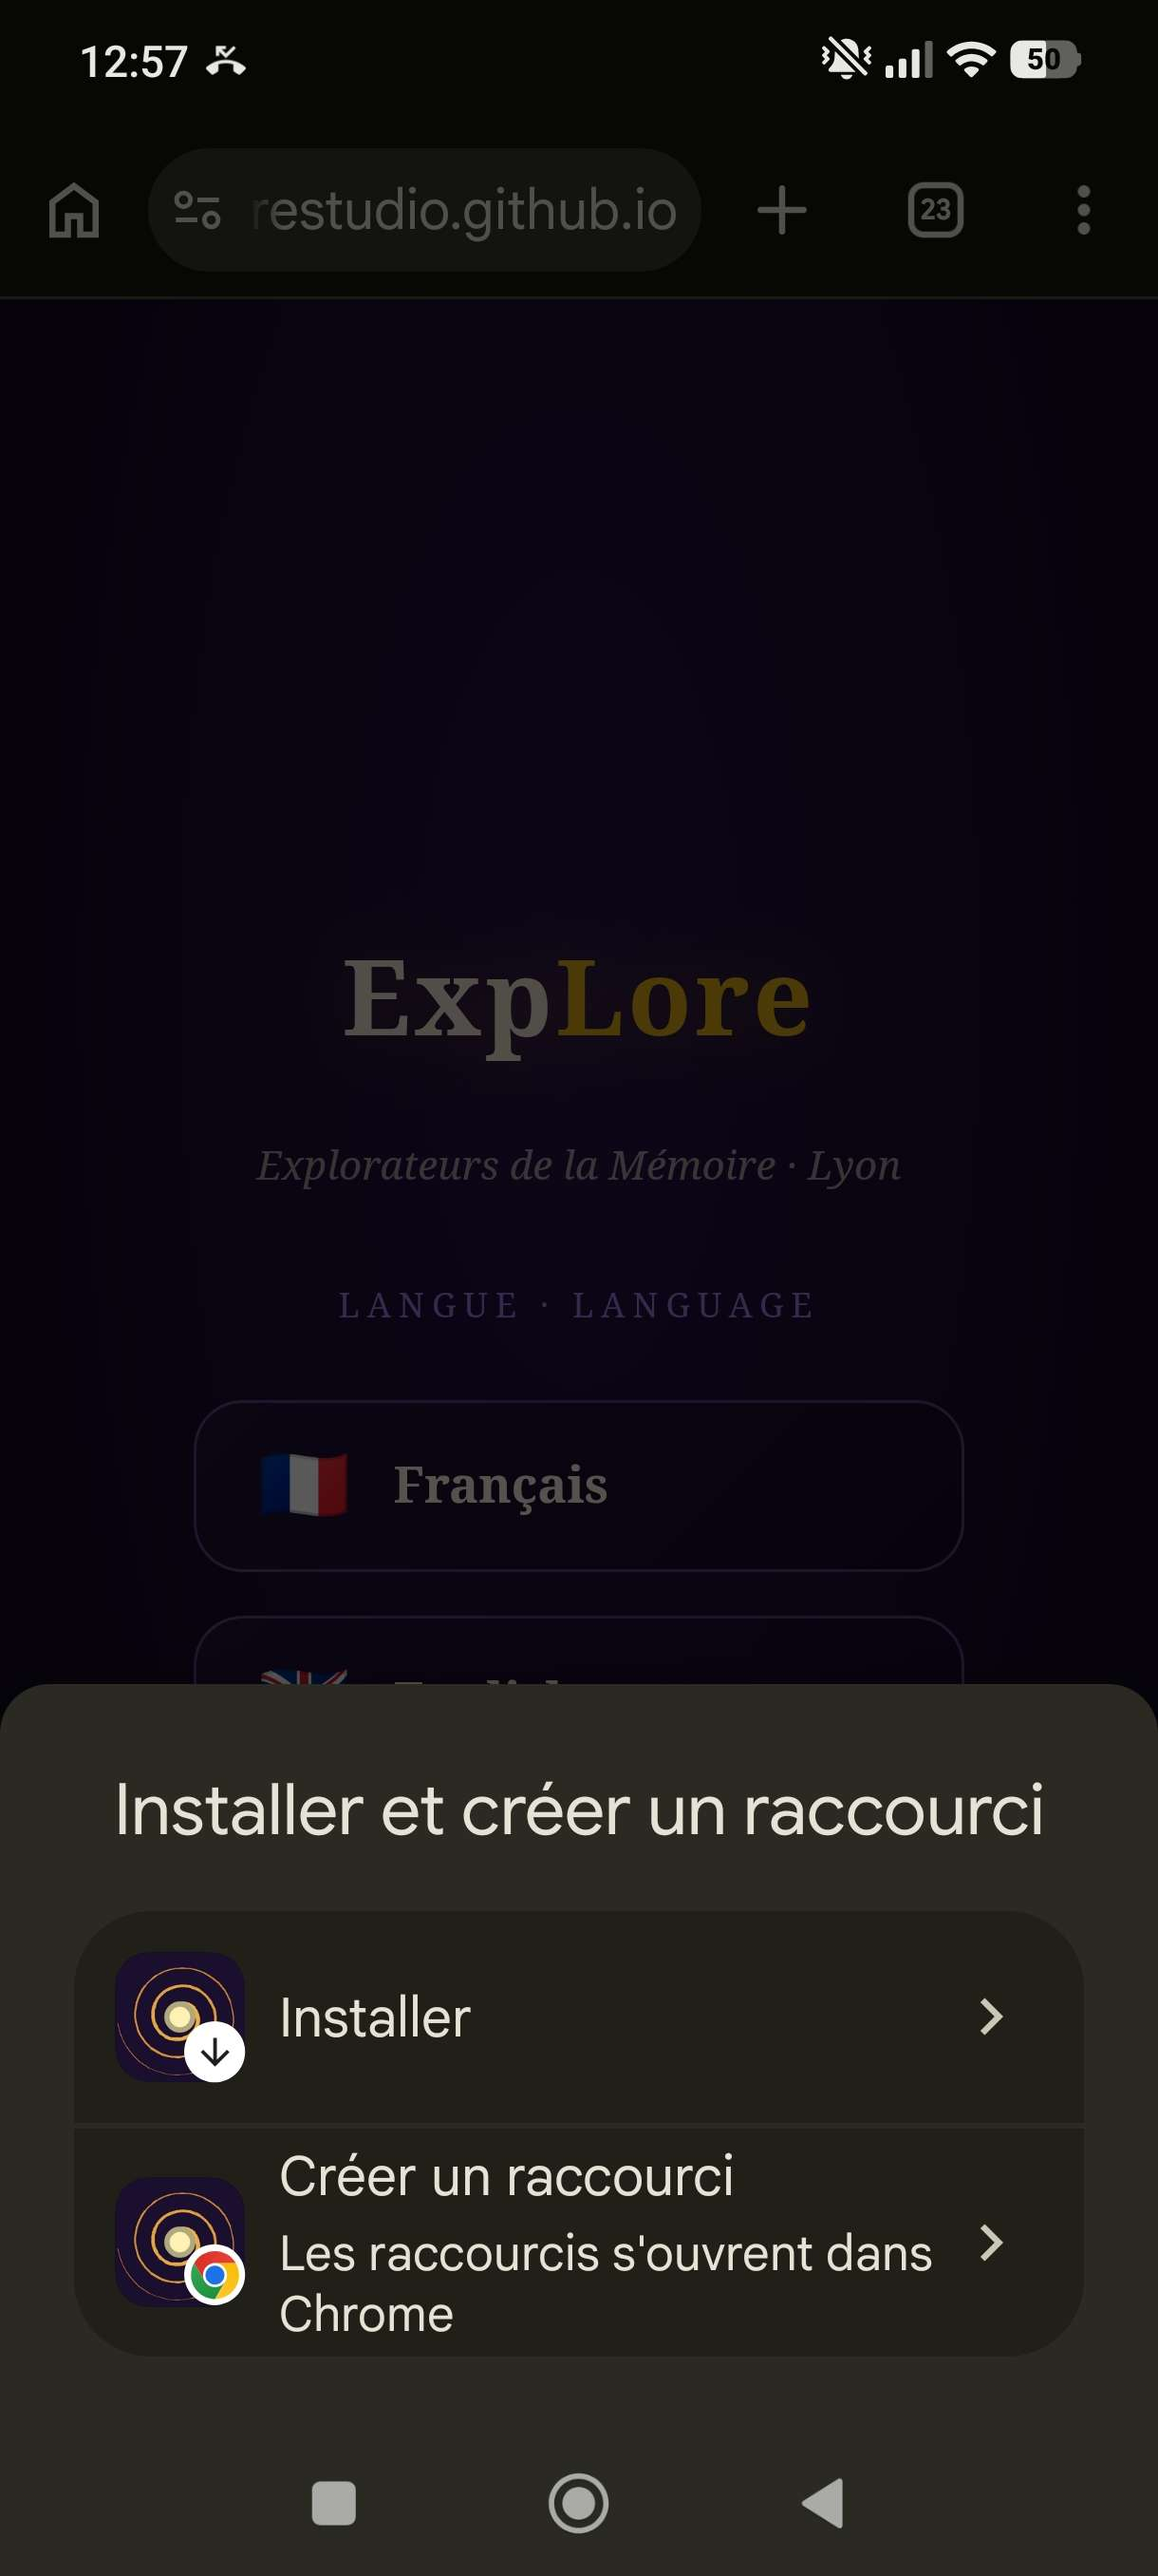
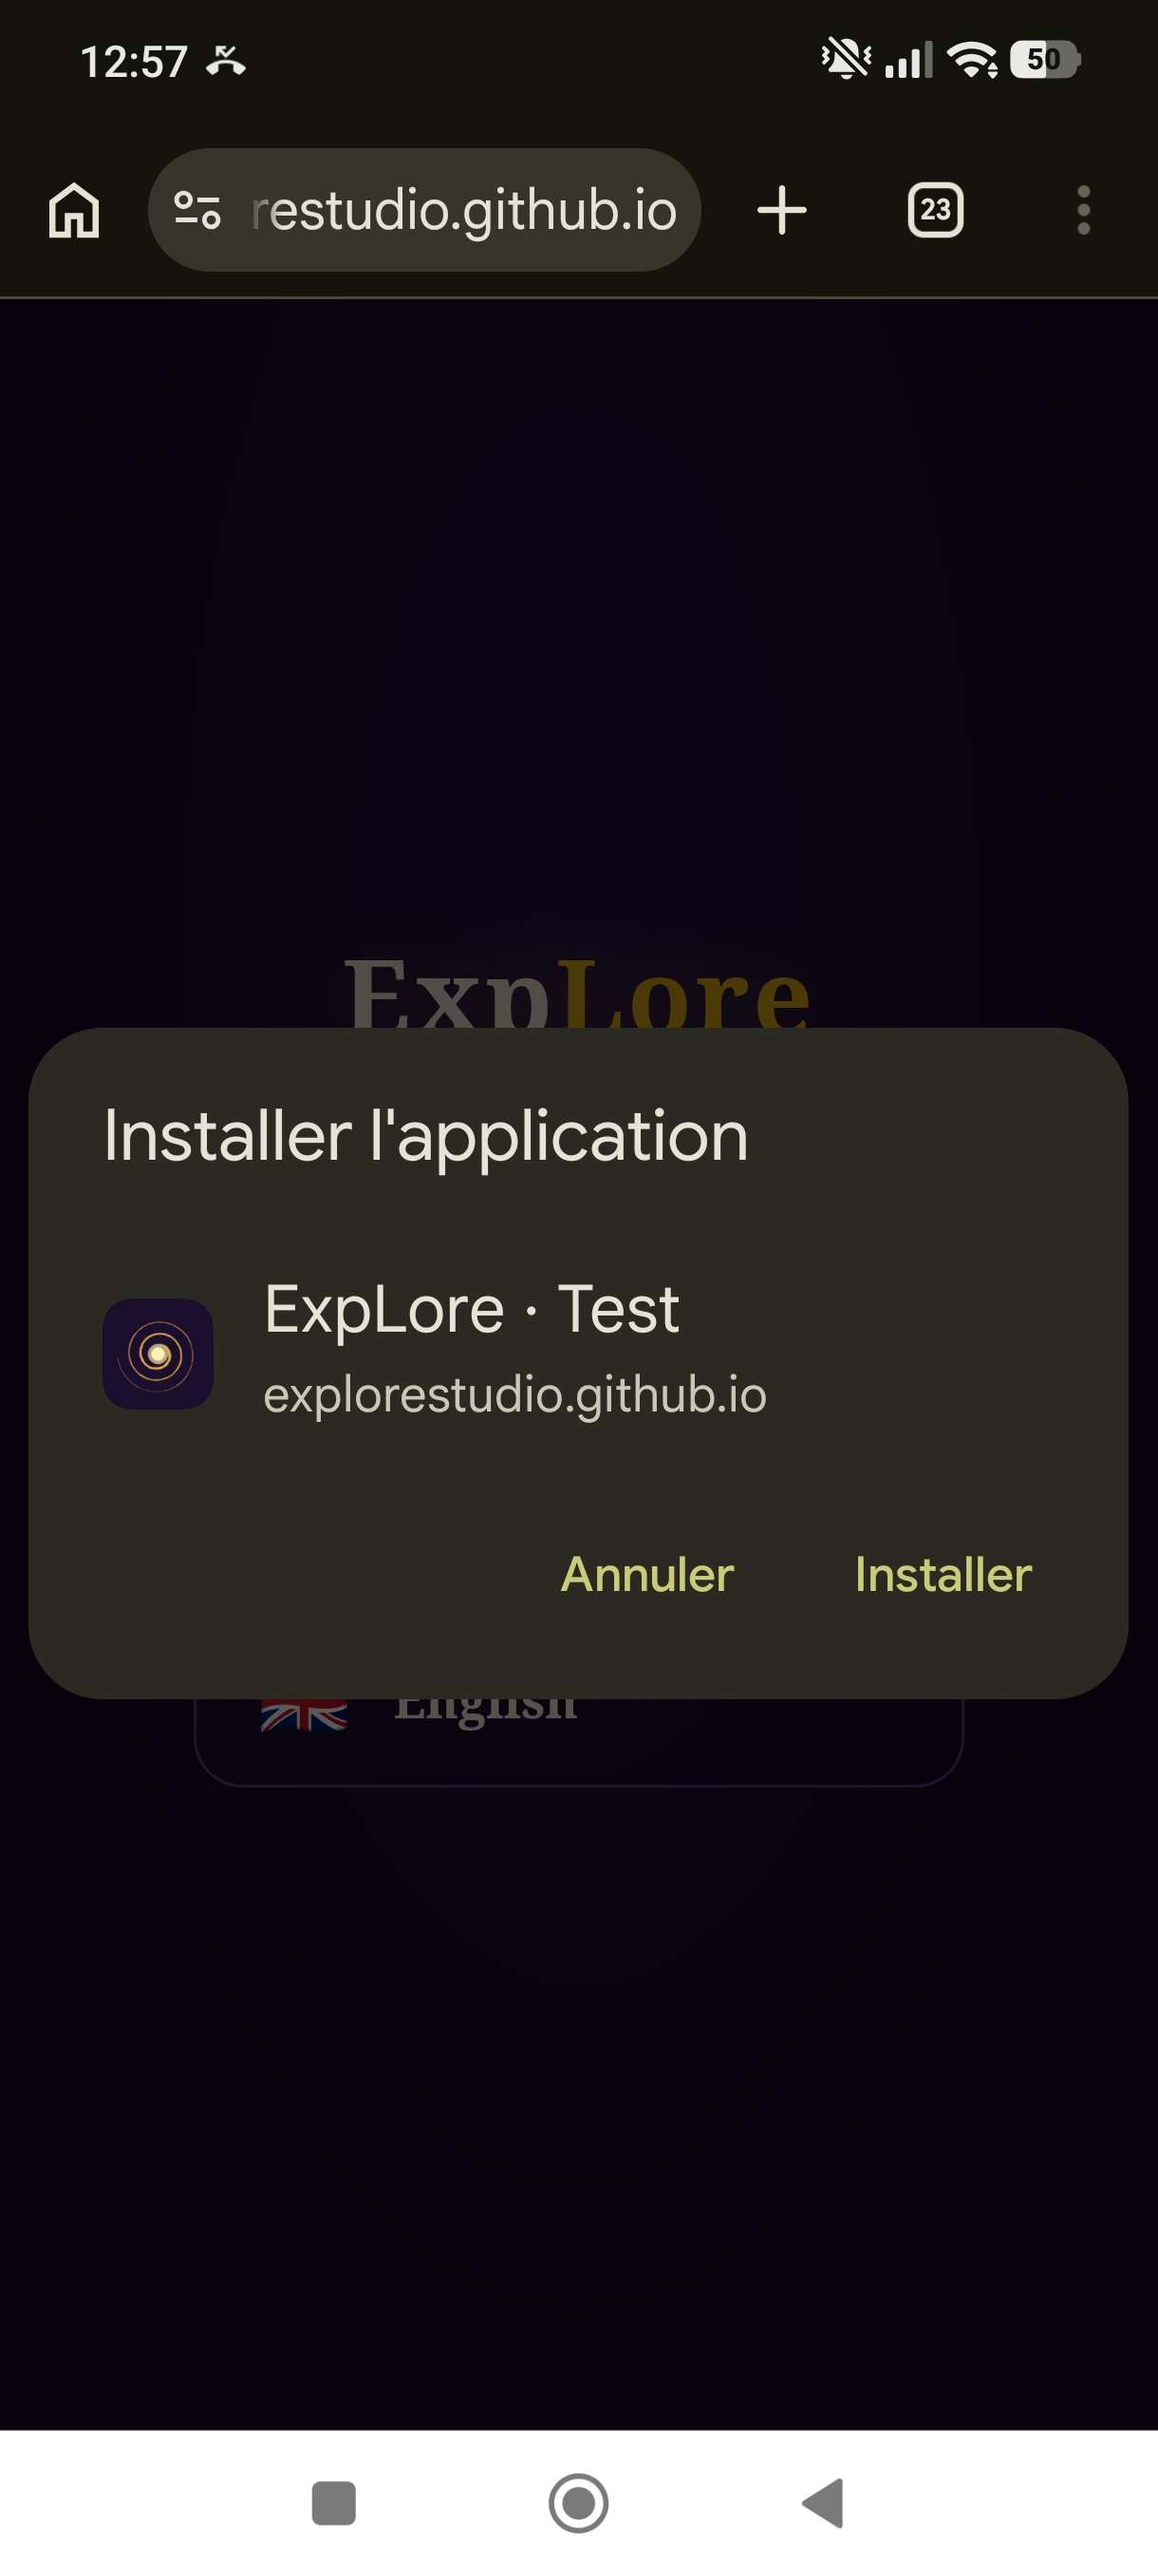
test-bellecour : six captures Android dans l'ordre, textes des étapes 3 et 6 alignés sur Chrome, captures centrées, titres sans étoiles, participation gratuite dans L'essentiel, section « Ce que c'est » et encadré Discord/Knockk retirés, Instagram avec les contacts, pied de page retiré

diff --git a/test-bellecour/index.html b/test-bellecour/index.html
@@ -294,7 +294,7 @@ section.bloc { margin-top: 46px; }
    en fond CSS, le recouvre si le fichier existe. Fichier absent = rien de cassé. */
 .capture {
   position: relative;
-  margin-top: 12px;
+  margin: 12px auto 0;   /* centrée sous le texte de l'étape */
   width: 150px;
   aspect-ratio: 9 / 19.5;
   border: 1px dashed rgba(240,236,226,0.22);
@@ -343,6 +343,9 @@ section.bloc { margin-top: 46px; }
 .btn-discord:hover { border-color: #5865F2; background: rgba(88,101,242,0.1); }
 .btn-ico { width: 18px; height: 18px; margin-right: 11px; flex-shrink: 0; fill: none; stroke: currentColor; stroke-width: 1.7; }
 .btn-discord .btn-ico { color: #5865F2; fill: currentColor; stroke: none; }
+.btn-instagram { color: var(--text); border: 1px solid rgba(225,48,108,0.55); }
+.btn-instagram:hover { border-color: #E1306C; background: rgba(225,48,108,0.1); }
+.btn-instagram .btn-ico { color: #E1306C; }
 .mail-ecrit { text-align: center; font-family: var(--mono); font-size: 13px; color: var(--text-faint); word-break: break-all; }
 
 /* ---------- Pied de page ---------- */
@@ -433,6 +436,10 @@ section.bloc { margin-top: 46px; }
         <dt>Après, pour ceux qui veulent</dt>
         <dd>Les Petits Joueurs<br><small>Rue Saint-Georges</small></dd>
       </div>
+      <div>
+        <dt>Participation</dt>
+        <dd>Gratuite</dd>
+      </div>
     </dl>
   </section>
 
@@ -440,24 +447,11 @@ section.bloc { margin-top: 46px; }
     <a class="btn btn-primary" href="#installer">Comment installer</a>
   </div>
 
-  <!-- Ce que c'est -->
-  <section class="bloc" aria-labelledby="t-quoi">
-    <h2 id="t-quoi"><svg class="sparkle" viewBox="0 0 24 24" aria-hidden="true"><path d="M12 1c.9 5.4 4.7 9.2 10.1 10.1C16.7 12 12.9 15.8 12 21.2 11.1 15.8 7.3 12 1.9 11.1 7.3 10.2 11.1 6.4 12 1Z"/></svg>Ce que c'est</h2>
-    <p>ExpLore est un jeu d'exploration de Lyon, sur téléphone. Des cartes sont cachées dans la ville : tu marches, tu les trouves, tu les collectionnes, et chacune te raconte un morceau de l'histoire des lieux.</p>
-    <p>Ce samedi, c'est une <strong>avant-première</strong>, pas le jeu fini. Certaines choses marcheront bien, d'autres coinceront. C'est justement ce qu'on veut voir.</p>
-    <p>La participation est <strong>gratuite et bénévole</strong>. Tes retours décident de la suite du jeu.</p>
-  </section>
-
   <!-- Installer l'application -->
   <section class="bloc" id="installer" aria-labelledby="t-installer">
-    <h2 id="t-installer"><svg class="sparkle" viewBox="0 0 24 24" aria-hidden="true"><path d="M12 1c.9 5.4 4.7 9.2 10.1 10.1C16.7 12 12.9 15.8 12 21.2 11.1 15.8 7.3 12 1.9 11.1 7.3 10.2 11.1 6.4 12 1Z"/></svg>Installer l'application</h2>
+    <h2 id="t-installer">Installer l'application</h2>
     <p>Pas de store : l'application s'installe <strong>depuis le navigateur</strong>, en ajoutant le site à l'écran d'accueil. Ça prend deux minutes. <strong>Fais-le avant de venir</strong> si tu peux. Sinon, on le fait ensemble au départ.</p>
     <p>Sur place, on te donne aussi ton <strong>code d'accès</strong>. Il n'est pas sur cette page, c'est normal.</p>
-
-    <div class="note">
-      <strong>Tu lis ceci depuis Discord, un mail ou Knockk ?</strong>
-      L'installation ne marche pas dans leur navigateur intégré. Ouvre d'abord cette page dans <strong>Chrome</strong> (Android) ou <strong>Safari</strong> (iPhone) : menu ⋮ ou ⋯, puis « Ouvrir dans le navigateur ».
-    </div>
 
     <div class="cta">
       <a class="btn btn-primary" href="https://explorestudio.github.io/expLore-project/app/test.html" target="_blank" rel="noopener" aria-label="Ouvrir l'application ExpLore Test, nouvel onglet">Ouvrir l'application</a>
@@ -483,8 +477,8 @@ section.bloc { margin-top: 46px; }
           <div class="capture" role="img" aria-label="Capture : le menu de Chrome ouvert"><span>Capture à venir</span><i style="background-image:url('./assets/android_2.jpg')"></i></div>
         </figure></li>
         <li><figure>
-          <figcaption>Choisis <em>Installer l'application</em> ou <em>Ajouter à l'écran d'accueil</em>.</figcaption>
-          <div class="capture" role="img" aria-label="Capture : l'option Installer l'application dans le menu"><span>Capture à venir</span><i style="background-image:url('./assets/android_3.jpg')"></i></div>
+          <figcaption>Fais défiler le menu et choisis <em>Installer et créer un raccourci</em>, puis <em>Installer</em>. Selon ton téléphone, l'option peut s'appeler <em>Installer l'application</em> ou <em>Ajouter à l'écran d'accueil</em>.</figcaption>
+          <div class="capture" role="img" aria-label="Capture : le choix Installer, après Installer et créer un raccourci"><span>Capture à venir</span><i style="background-image:url('./assets/android_3.jpg')"></i></div>
         </figure></li>
         <li><figure>
           <figcaption>Confirme avec <em>Installer</em>.</figcaption>
@@ -495,7 +489,7 @@ section.bloc { margin-top: 46px; }
           <div class="capture" role="img" aria-label="Capture : l'icône ExpLore Test sur l'écran d'accueil"><span>Capture à venir</span><i style="background-image:url('./assets/android_5.jpg')"></i></div>
         </figure></li>
         <li><figure>
-          <figcaption>Autorise la localisation : le jeu a besoin de ta position pour savoir où tu marches. Au premier lancement, ton téléphone te la demande. Choisis <em>« Lorsque vous utilisez l'appli »</em>, et laisse la position exacte activée. Vérifie aussi que la localisation du téléphone est allumée.</figcaption>
+          <figcaption>Autorise la localisation : le jeu a besoin de ta position pour savoir où tu marches. Au premier lancement, ton téléphone te la demande. Choisis <em>Exacte</em>, puis <em>Autoriser pendant la visite du site</em> (ou <em>Lorsque vous utilisez l'appli</em>, selon ton téléphone). Évite <em>Autoriser cette fois-ci</em> : la question reviendrait à chaque lancement. Vérifie aussi que la localisation du téléphone est allumée.</figcaption>
           <div class="capture" role="img" aria-label="Capture : la demande d'autorisation de localisation"><span>Capture à venir</span><i style="background-image:url('./assets/android_6.jpg')"></i></div>
         </figure></li>
       </ol>
@@ -539,7 +533,7 @@ section.bloc { margin-top: 46px; }
 
   <!-- À prévoir -->
   <section class="bloc" aria-labelledby="t-prevoir">
-    <h2 id="t-prevoir"><svg class="sparkle" viewBox="0 0 24 24" aria-hidden="true"><path d="M12 1c.9 5.4 4.7 9.2 10.1 10.1C16.7 12 12.9 15.8 12 21.2 11.1 15.8 7.3 12 1.9 11.1 7.3 10.2 11.1 6.4 12 1Z"/></svg>À prévoir</h2>
+    <h2 id="t-prevoir">À prévoir</h2>
     <ul class="liste">
       <li>Ton téléphone <strong>bien chargé</strong>. Une batterie externe si tu en as une.</li>
       <li>Les <strong>données mobiles</strong> activées.</li>
@@ -551,7 +545,7 @@ section.bloc { margin-top: 46px; }
 
   <!-- Le déroulé -->
   <section class="bloc" aria-labelledby="t-deroule">
-    <h2 id="t-deroule"><svg class="sparkle" viewBox="0 0 24 24" aria-hidden="true"><path d="M12 1c.9 5.4 4.7 9.2 10.1 10.1C16.7 12 12.9 15.8 12 21.2 11.1 15.8 7.3 12 1.9 11.1 7.3 10.2 11.1 6.4 12 1Z"/></svg>Le déroulé</h2>
+    <h2 id="t-deroule">Le déroulé</h2>
     <ol class="deroule">
       <li><strong>Accueil</strong>On se retrouve devant l'Office du Tourisme. On te remet ta feuille de route.</li>
       <li><strong>Installation</strong>On vérifie que l'application marche, et on te donne ton code d'accès.</li>
@@ -564,15 +558,19 @@ section.bloc { margin-top: 46px; }
 
   <!-- ⚙ En cas de pluie -->
   <section class="bloc" aria-labelledby="t-pluie">
-    <h2 id="t-pluie"><svg class="sparkle" viewBox="0 0 24 24" aria-hidden="true"><path d="M12 1c.9 5.4 4.7 9.2 10.1 10.1C16.7 12 12.9 15.8 12 21.2 11.1 15.8 7.3 12 1.9 11.1 7.3 10.2 11.1 6.4 12 1Z"/></svg>En cas de pluie</h2>
+    <h2 id="t-pluie">En cas de pluie</h2>
     <p>Pluie légère : on maintient, prends un imperméable. Grosse pluie annoncée : le test est <strong>reporté au samedi 7 novembre, 14h</strong>, même lieu. On te le confirme la veille à 18h sur le Discord et par mail.</p>
   </section>
 
   <!-- Contact -->
   <section class="bloc" aria-labelledby="t-contact">
-    <h2 id="t-contact"><svg class="sparkle" viewBox="0 0 24 24" aria-hidden="true"><path d="M12 1c.9 5.4 4.7 9.2 10.1 10.1C16.7 12 12.9 15.8 12 21.2 11.1 15.8 7.3 12 1.9 11.1 7.3 10.2 11.1 6.4 12 1Z"/></svg>Un souci, une question</h2>
+    <h2 id="t-contact">Un souci, une question</h2>
     <p>Un problème d'installation, un empêchement, une question : écris-nous, ou passe sur le Discord.</p>
     <div class="contacts">
+      <a class="btn btn-instagram" href="https://www.instagram.com/explorestudiofr/" target="_blank" rel="noopener" aria-label="ExpLore sur Instagram, nouvel onglet">
+        <svg class="btn-ico" viewBox="0 0 24 24" aria-hidden="true"><rect x="3" y="3" width="18" height="18" rx="5" fill="none" stroke="currentColor" stroke-width="2"/><circle cx="12" cy="12" r="4.2" fill="none" stroke="currentColor" stroke-width="2"/><circle cx="17.4" cy="6.6" r="1.2" fill="currentColor"/></svg>
+        Instagram
+      </a>
       <a class="btn btn-secondary" href="mailto:explorestudiocontact@gmail.com?subject=Test%20terrain%20Bellecour" aria-label="Nous écrire par mail">Nous écrire</a>
       <a class="btn btn-discord" href="https://discord.gg/dtYbQKjRca" target="_blank" rel="noopener" aria-label="Rejoindre le Discord d'ExpLore, nouvel onglet">
         <svg class="btn-ico" viewBox="0 0 24 24" aria-hidden="true"><path d="M19.3 5.3A16.6 16.6 0 0 0 15.2 4l-.5 1a15.3 15.3 0 0 0-5.4 0l-.5-1a16.6 16.6 0 0 0-4.1 1.3C2.1 9.2 1.4 13 1.8 16.7a16.7 16.7 0 0 0 5 2.5l1.1-1.7a10.8 10.8 0 0 1-1.7-.8l.4-.3a11.9 11.9 0 0 0 10.8 0l.4.3a10.8 10.8 0 0 1-1.7.8l1.1 1.7a16.7 16.7 0 0 0 5-2.5c.5-4.3-.8-8.1-2.9-11.4ZM8.7 14.5c-1 0-1.8-.9-1.8-2s.8-2 1.8-2 1.8.9 1.8 2-.8 2-1.8 2Zm6.6 0c-1 0-1.8-.9-1.8-2s.8-2 1.8-2 1.8.9 1.8 2-.8 2-1.8 2Z"/></svg>
@@ -590,11 +588,6 @@ section.bloc { margin-top: 46px; }
 
 </main>
 
-<footer class="foot">
-  <a href="../landinghub.html">ExpLore</a>
-  <span class="dot">·</span>
-  <a href="https://www.instagram.com/explorestudiofr/" target="_blank" rel="noopener" aria-label="ExpLore sur Instagram, nouvel onglet">@explorestudiofr</a>
-</footer>
 
 <script>
 // Onglets Android / iPhone : sans JS, les deux blocs restent visibles l'un sous l'autre
